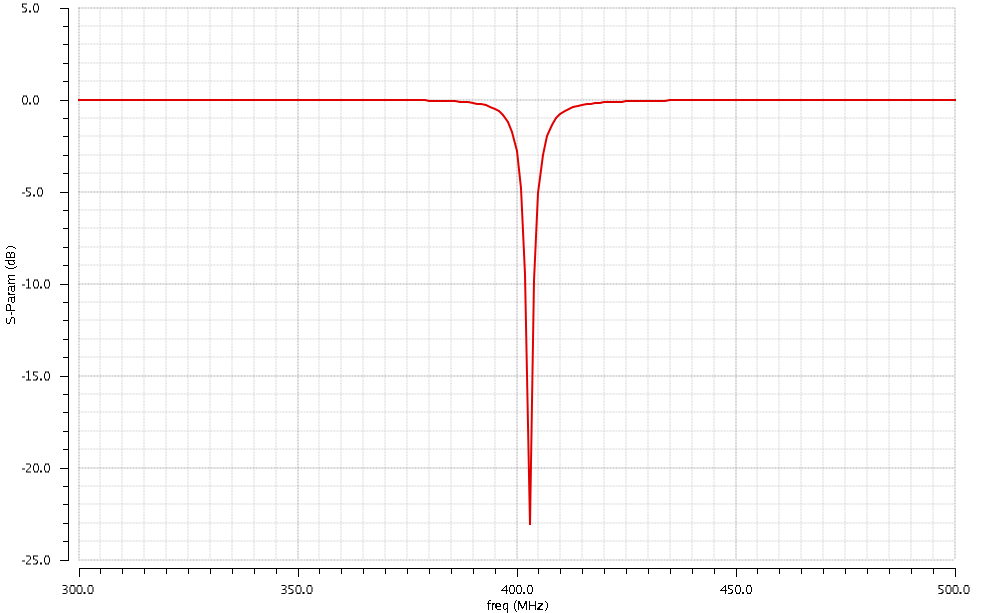
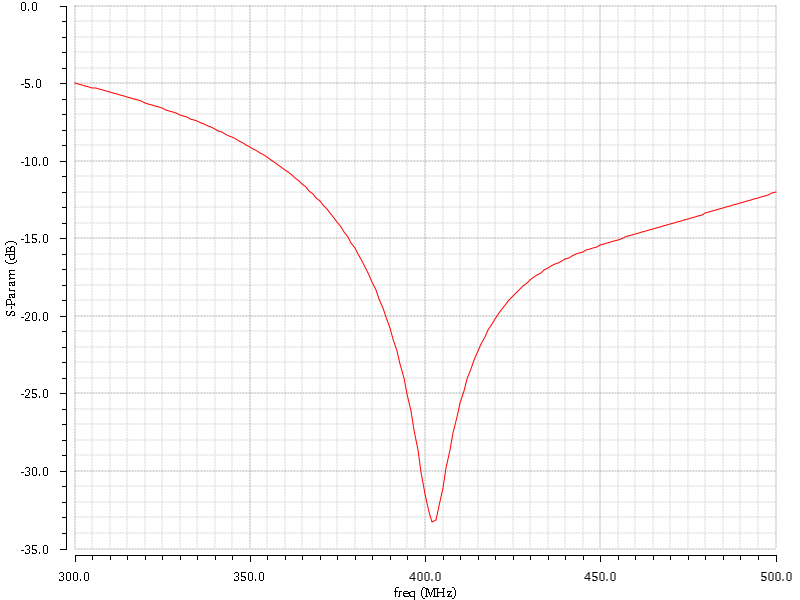
spell check

diff --git a/results.tex b/results.tex
@@ -1,6 +1,6 @@
 \section{Results}
 \subsection{Low Noise Amplifier}
-Fig. ~\ref{fig:s11} shows the S11 parameters of the LNA, which indicates the input matching quality. The minimum input matching is -21 dB. Fig. ~\ref{fig:s22}, the S22, output matching is presented. The minimum matching point is -22 dB. Also, the gain (S21 parameters) can be seen from Fig. ~\ref{fig:s21}. This LNA provides a relative high gain, 17.5 dB. To show the linearity property of the LNA, the 1 dB compression point plot is presented in Fig. ~\ref{fig:lnaiip3}. From the figure, the 1 dB compression point is ??. Also, the IP3 is done by cadence simulation, which is shown in Fig. ~\ref{fig:1db}. The IP3 point is. What is more, noise figure should be presented to analysis the LNA. In Fig. ~\ref{fig:lnanoise} and Fig. ~\ref{fig:lnanoisemin}, we display the noise figure and minimum noise figure of the proposed LNA. The noise figure is 3.4 dB and the minimum noise figure is 1.2 dB. To match the design requirement, the DC power consumption of the LNA is 0.57 mW. 
+Fig. ~\ref{fig:s11} shows the S11 parameters of the LNA, which indicates the input matching quality. The minimum input matching is -21 dB. Fig. ~\ref{fig:s22}, the S22, output matching is presented. The minimum matching point is -33 dB. Also, the gain (S21 parameters) can be seen from Fig. ~\ref{fig:s21}. This LNA provides a relative high gain, 17.5 dB. To show the linearity property of the LNA, the 1 dB compression point plot is presented in Fig. ~\ref{fig:lna1db}. From the figure, the 1 dB compression point is -16.46 dBm. Also, the IIP3 is preformed in cadence simulation, which is shown in Fig. ~\ref{fig:lnaiip3}. The IIP3 point is -7.77 dBm. Noise Figure and minimum Noise Figure of the LNA is presented In Fig. ~\ref{fig:lnanoise} and Fig. ~\ref{fig:lnanoisemin} respectively. The Noise Figure is 3.4 dB and the minimum Noise Figure is 1.2 dB. To match the design requirement, the DC power consumption of the LNA is 0.57 mW. 
 
 %s11
 \begin{figure}[h]
@@ -29,7 +29,7 @@ Fig. ~\ref{fig:s11} shows the S11 parameters of the LNA, which indicates the inp
 %1dbcompression
 \begin{figure}[h]
    \centering
-    \includegraphics[width=0.5\textwidth]{figures/s21.png}
+    \includegraphics[width=0.5\textwidth]{figures/lna1db.png}
     \caption{LNA 1 dB compression point}
     \label{fig:1db}
 \end{figure}
@@ -37,7 +37,7 @@ Fig. ~\ref{fig:s11} shows the S11 parameters of the LNA, which indicates the inp
 %IIP3
 \begin{figure}[h]
    \centering
-    \includegraphics[width=0.5\textwidth]{figures/s21.png}
+    \includegraphics[width=0.5\textwidth]{figures/lnaiip3.png}
     \caption{LNA Linearity}
     \label{fig:lnaiip3}
 \end{figure}
@@ -45,7 +45,7 @@ Fig. ~\ref{fig:s11} shows the S11 parameters of the LNA, which indicates the inp
 %noise
 \begin{figure}[h]
    \centering
-    \includegraphics[width=0.5\textwidth]{figures/s21.png}
+    \includegraphics[width=0.5\textwidth]{figures/lnanoise.png}
     \caption{Graph of LNA noise figure}
     \label{fig:lnanoise}
 \end{figure}
@@ -53,13 +53,13 @@ Fig. ~\ref{fig:s11} shows the S11 parameters of the LNA, which indicates the inp
 %min noise
 \begin{figure}[h]
    \centering
-    \includegraphics[width=0.5\textwidth]{figures/s21.png}
+    \includegraphics[width=0.5\textwidth]{figures/lnanoisemin.png}
     \caption{Graph of LNA minimum noise figure}
     \label{fig:lnanoisemin}
 \end{figure}
 
 \subsection{Mixer}
-Although the assignment only asked to see conversion gain with respect to frequency as shown in Fig. ~\ref{fig:cgfreq} we also simulated for conversion gain with respect to input power as shown in Fig. ~\ref{fig:cgpwr}. These graphs show that the mixer is able to maintain good gain across the frequencies of interest as well as consistent gain across sensitivities as low as -100 dBm. Fig. ~\ref{fig:loif} and Fig. ~\ref{fig:lorf} show the VCO feedthrough to the input and output ports. As can be seen in the graphs, the setup of the mixer causes this these figures to be very low. The noise of the mixer was found to be 4.40 dB as shown in Fig. ~\ref{fig:mixernoise}. Lastly, the linearity of the mixer can be found in Fig. ~\ref{fig:mixerlin}. The linearity is quite lower than expected however this was a trade-off to achieve a high gain and low noise. Final mixer results can be found in TABLE ~\ref{tab:mixerresults}.
+Although the assignment only asked to see conversion gain with respect to frequency as shown in Fig. ~\ref{fig:cgfreq} we also simulated for conversion gain with respect to input power as shown in Fig. ~\ref{fig:cgpwr}. These graphs show that the mixer is able to maintain good gain across the frequencies of interest as well as consistent gain across sensitivities as low as -100 dBm. Fig. ~\ref{fig:loif} and Fig. ~\ref{fig:lorf} show the VCO feedthrough to the input and output ports. As can be seen in the graphs, the setup of the mixer causes these figures to be very low. The noise of the mixer was found to be 4.40 dB as shown in Fig. ~\ref{fig:mixernoise}. Lastly, the linearity of the mixer can be found in Fig. ~\ref{fig:mixerlin}. The linearity is quite lower than expected however this was a trade-off to achieve a high gain and low noise. Final mixer results can be found in TABLE ~\ref{tab:mixerresults}.
 
 %table of results
 \begin{table}[h]
@@ -130,14 +130,14 @@ Although the assignment only asked to see conversion gain with respect to freque
 \end{figure}
 
 \subsection{Voltage Controlled Oscillator}
-Fig.~\ref{fig:vcotrans} shows the simulated output transients of the proposed VCO; the VCO provides two differential outputs with the same peak-peak value of 305 mV. The oscillation frequency can also be calculated from the period of sinusoidal waveform, which is 400 MHz. The phase noise is shown in Fig. ~\ref{fig:vcophase} and it is -119 $\frac{dBc}{Hz}$ at 1MHz offset from the center frequency of 400 MHz. Fig. ~\ref{fig:vcotune} plots the simulated tuning curve by varying the controllable voltage. As the tuning voltage sweeps from -0.5 V to 1 V, the oscillation frequency changes from 393 MHz to 400 MHz, indicating a tunable range of 6 MHz. The VCO’s power consumption, which is a critical consideration in MedRadio application, is 0.2 mW. A table of results can be found in TABLE ~\ref{tab:vcoresults}.
+Fig.~\ref{fig:vcotrans} shows the simulated output transients of the proposed VCO; the VCO provides two differential outputs with the same peak-peak value of 305 mV. The oscillation frequency can also be calculated from the period of sinusoidal waveform, which is 400 MHz. The phase noise is shown in Fig. ~\ref{fig:vcophase} and it is -119 $\frac{dBc}{Hz}$ at 1 MHz offset from the center frequency of 400 MHz. Fig. ~\ref{fig:vcotune} plots the simulated tuning curve by varying the controllable voltage. As the tuning voltage sweeps from -0.5 V to 1 V, the oscillation frequency changes from 393 MHz to 400 MHz, indicating a tunable range of 6 MHz. The VCO’s power consumption, which is a critical consideration in MedRadio application, is 0.2 mW. A table of results can be found in TABLE ~\ref{tab:vcoresults}.
 
 %table of results
 \begin{table}[h]
 \begin{center}
 	\begin{tabular}{ |c | c | }
  		\hline                      
-  		Tuning Range &  6 MHz \\hline
+  		Tuning Range &  6 MHz \\ \hline
   		Phase noise &  -119 $\frac{dBc}{Hz}$ \\ \hline
 		Power & 0.2 mW \\ 
   		\hline  

diff --git a/introduction.tex b/introduction.tex
@@ -7,6 +7,6 @@ To implement these technologies requires reliable wireless links that need to tr
 	\item One ``core'' band between 402-405 MHz. The core band can be used \emph{only} for fully implanted devices.
 \end{itemize}
 
-Additionally, the devices need to consume relatively low power while possessing the smallest possible physical footprint. Reducing the power requires either reducing the supply voltage (typical applications hover around 1V to 1.8V) or reducing the current required to drive the circuitry. Reducing the dimensions of the device necessitates smaller process technologies (typically 0.18 micron or lower) with minimizing circuit components as well as employing tight packaging skills when creating layouts for the circuit. The wireless nature requires that the range of the device be, nominally, greater than 2 meters. This requires that the device sensitivity be quite low (around -80 dBm and lower) while having good matching to reduce reflective losses in receiving and transmitting.
+Additionally, the devices need to consume relatively low power while possessing the smallest possible physical footprint. Reducing the power requires either reducing the supply voltage (typical applications hover around 1 V to 1.8 V) or reducing the current required to drive the circuitry. Reducing the dimensions of the device necessitates smaller process technologies (typically 0.18 micron or lower) with minimizing circuit components as well as employing tight packaging skills when creating layouts for the circuit. The wireless nature requires that the range of the device be, nominally, greater than 2 meters. This requires that the device sensitivity be quite low (around -80 dBm and lower) while having good matching to reduce reflective losses in receiving and transmitting.
 
 Designing circuits to meet the constraints can be quite challenging for a designer. Reducing power consumption is the most important factor, but that typically comes at a cost to other values that necessitate the proper operation of the circuit such as a high gain, minimum noise figure, and maximum sensitivity. Moving forward, we present our implementation of a MedRadio receiver that seeks to meet all of the design constraints and more.

diff --git a/integration.tex b/integration.tex
@@ -8,7 +8,7 @@ Since it was known ahead of time that the receiver was to be fully integrated to
     \label{fig:fullsystem}
 \end{figure}
 
-In order to test the system, a transient analysis was preformed. An initial input signal of 1mV at 403.5MHz was used to test the system. Fig. ~\ref{fig:fullsystemtrans} shows a clean output response from the system that swings from 55mV to -70mV at 3.5MHz. This leads to an overall swing of 62.5mV, therefore the conversion gain of the entire system is $20log(\frac{62.5mV}{1mV})$ or {\bf 35.92 dB}.
+In order to test the system, a transient analysis was preformed. An initial input signal of 1 mV at 403.5 MHz was used to test the system. Fig. ~\ref{fig:fullsystemtrans} shows a clean output response from the system that swings from 55 mV to -70 mV at 3.5 MHz. This leads to an overall swing of 62.5 mV, therefore the conversion gain of the entire system is $20log(\frac{62.5 mV}{1 mV})$ or {\bf 35.92 dB}.
 
 \begin{figure}[h]
    \centering
@@ -17,7 +17,7 @@ In order to test the system, a transient analysis was preformed. An initial inpu
     \label{fig:fullsystemtrans}
 \end{figure}
 
-In order to measure the noise figure, the oscillator was removed and an ideal source was used instead. Although the oscillator in theory would contribute slightly to the noise, it was determined that due to its low LO-IF feed-through that the oscillator has a negligible effect to the total noise. Fig. ~\ref{fig:fullsystemnoise} shows the total noise of the system, at the corner frequency of the output, it was determined that the total noise was {\bf 3.65 dB}.
+In order to measure the Noise Figure, the VCO was removed and an ideal source was used instead. Although the oscillator in theory would contribute slightly to the noise, it was determined that due to its low LO-IF feed-through that the oscillator has a negligible effect to the total noise. Fig. ~\ref{fig:fullsystemnoise} shows the total noise of the system, at the corner frequency of the output, it was determined that the total noise was {\bf 3.65 dB}.
 
 \begin{figure}[h]
    \centering

diff --git a/abstract.tex b/abstract.tex
@@ -1,1 +1,1 @@
-In this paper, we present the design of a high gain, low power, and low noise front-end Medical Device Radiocommunications Service (MedRadio) receiver for wireless medical technology applications. We employ a low-IF architecture operating at 400MHz using 0.18 um CMOS technology from the IBM7RF library. Cumulatively, we present individual designs for a low noise amplifier (LNA), a mixer, and a voltage controlled oscillator (VCO) that have been tuned to minimize power while matching to one another's design constraints. The receiver achieves 36dB gain with a 3.65dB noise figure and 1.8mW of power consumption.
+In this paper, we present the design of a high gain, low power, and low noise front-end Medical Device Radiocommunications Service (MedRadio) receiver for wireless medical technology applications. We employ a low-IF architecture operating at 400 MHz using 0.18 um CMOS technology from the IBM7RF library. Cumulatively, we present individual designs for a low noise amplifier (LNA), a mixer, and a voltage controlled oscillator (VCO) that have been tuned to minimize power while matching to one another's design constraints. The receiver achieves 36 dB gain with a 3.65 dB noise figure and 1.8 mW of power consumption.
